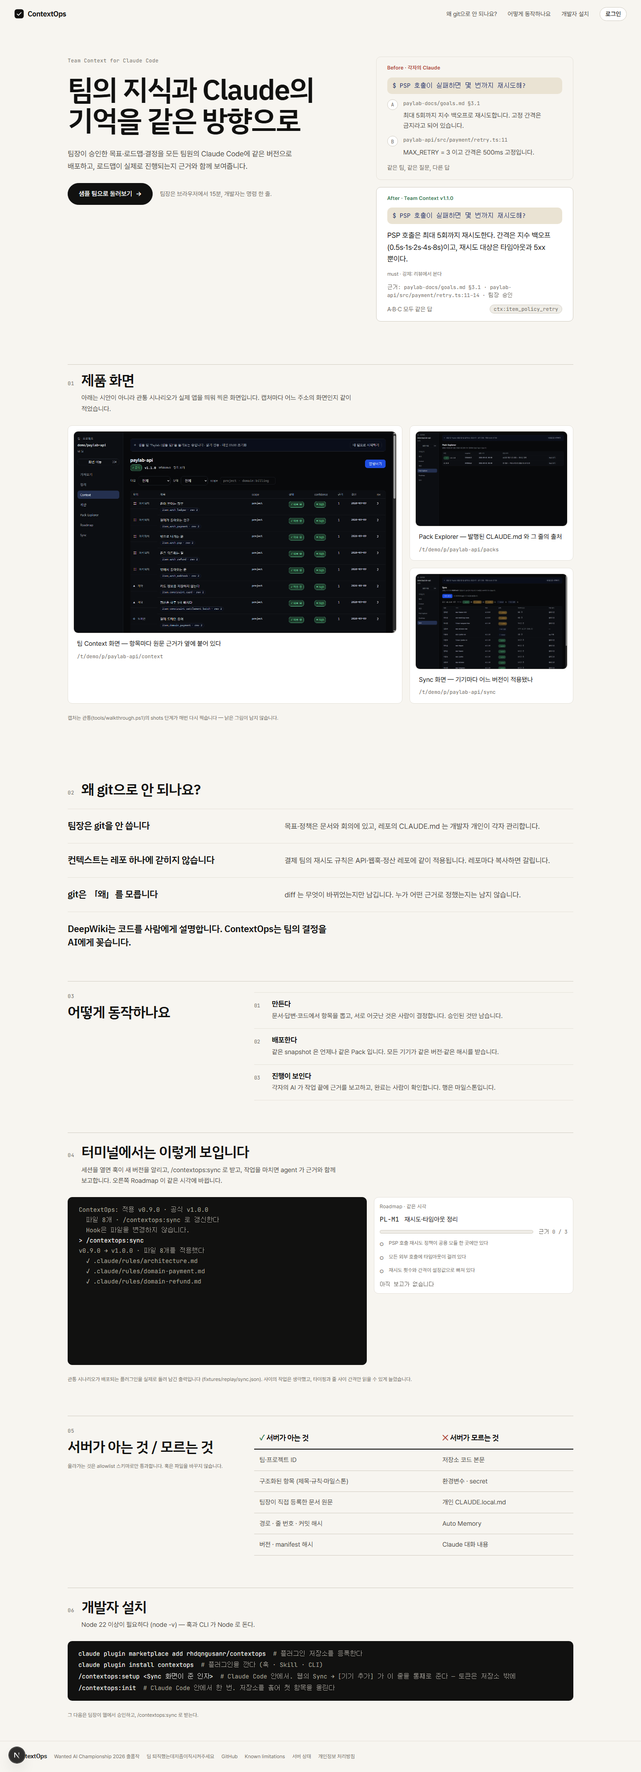
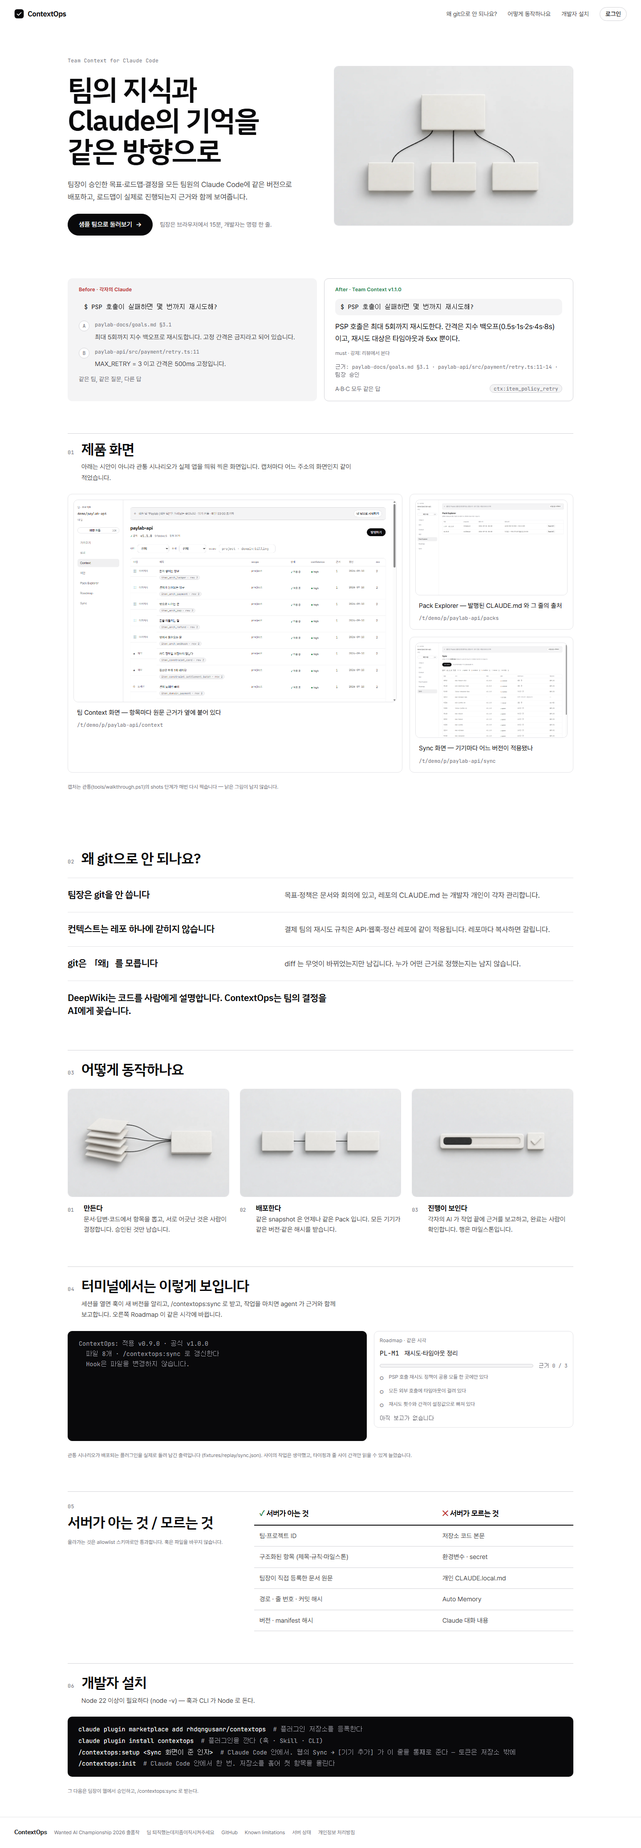
feat(web): 랜딩에 그림 — 히어로 클레이 카드 + 단계 그림 셋 (로컬 Codex CLI 생성 · 사람이 고름)
사용자 지시: 「이미지 넣어도 되니 여러 방향으로」 → 「절대 코드로 이미지는 만들지 마」 → 「로컬 Codex CLI 로」.
codex exec(imagegen)로 히어로 후보 4장을 뽑아 보였고 ④ 클레이 카드(한 Pack → 세 기기)를 골랐다.
「어떻게 동작하나요」에도 같은 시리즈로 단계 그림 3장(-i 참고 이미지).

- public/art/*.webp 넷 (68KB) · 정본 src/lib/web/art.ts (경로·크기·alt) — 화면 코드에 파일 이름 없음
- 히어로 6/6: 왼쪽 글 · 오른쪽 그림 · Before/After 는 아래 두 열 (문구·시험 그대로)
- 「어떻게」 3열: 그림 위, 번호·글 아래 — ART.steps 가 단계 수와 같을 때만
- test: web-landing-shots ⑤ 는 /shots/ <img> 만 센다 (그림은 별도)
- DESIGN_BRIEF §3 「그림」 신설 · §4 화면 1 갱신 · 원본 PNG·프롬프트 evidence/…/art/

diff --git a/apps/web/src/components/landing.tsx b/apps/web/src/components/landing.tsx
@@ -2,6 +2,7 @@ import { ReplayFrames, ShotsManifest } from '@contextops/schema'
 
 import replayRecording from '../../../../fixtures/replay/sync.json'
 import shotsManifest from '../../public/shots/manifest.json'
+import { ART } from '../lib/web/art'
 import { SITE } from '../lib/web/site'
 import styles from './landing.module.css'
 import { TerminalReplay } from './terminal-replay'
@@ -332,7 +333,11 @@ function Hero() {
           <span className={styles.note}>{LANDING_HEAD.note}</span>
         </div>
       </div>
-      <BeforeAfter />
+      <figure className={styles.heroArt}>
+        {/* 그림의 정본은 `lib/web/art.ts` — 사람이 고른 생성 이미지다 (코드로 그린 그림이 아니다 · DESIGN_BRIEF §3 「그림」).
+            첫 화면이라 즉시 받는다. 폭·높이는 정본이 준다 — 늦게 떠도 자리가 안 튄다. */}
+        <img src={ART.hero.src} width={ART.hero.width} height={ART.hero.height} alt={ART.hero.alt} loading="eager" />
+      </figure>
     </section>
   )
 }
@@ -423,24 +428,41 @@ function WhyNotGit({ index }: { index: string }) {
 }
 
 function HowItWorks({ index }: { index: string }) {
+  //  단계 그림은 정본(`ART.steps`)이 단계 수와 같을 때만 — 하나라도 빠지면 글로만 선다 (반쪽 시리즈를 보이지 않는다).
+  const art = ART.steps.length === HOW_IT_WORKS.steps.length ? ART.steps : null
+  const steps = (
+    <ol className={art ? styles.stepsArt : styles.steps}>
+      {HOW_IT_WORKS.steps.map((s, i) => {
+        const a = art?.[i]
+        return (
+          <li key={s.head} className={art ? styles.stepArt : styles.step}>
+            {a ? <img className={styles.stepImg} src={a.src} width={a.width} height={a.height} alt={a.alt} loading="lazy" /> : null}
+            {/* 번호는 `<ol>` 이 이미 말한다 — 모노 숫자는 그림이다. */}
+            <span className={styles.stepNo} aria-hidden="true">{String(i + 1).padStart(2, '0')}</span>
+            <div className={styles.stepBody}>
+              <h3>{s.head}</h3>
+              <p>{s.body}</p>
+            </div>
+          </li>
+        )
+      })}
+    </ol>
+  )
+  if (art) {
+    return (
+      <section className={styles.section} aria-labelledby="landing-how">
+        <SectionHead id="landing-how" index={index} title={HOW_IT_WORKS.title} />
+        {steps}
+      </section>
+    )
+  }
   return (
     <section className={styles.section} aria-labelledby="landing-how">
       <div className={styles.split}>
         <div className={styles.splitHead}>
           <SectionHead id="landing-how" index={index} title={HOW_IT_WORKS.title} />
         </div>
-        <ol className={styles.steps}>
-          {HOW_IT_WORKS.steps.map((s, i) => (
-            <li key={s.head} className={styles.step}>
-              {/* 번호는 `<ol>` 이 이미 말한다 — 모노 숫자는 그림이다. */}
-              <span className={styles.stepNo} aria-hidden="true">{String(i + 1).padStart(2, '0')}</span>
-              <div className={styles.stepBody}>
-                <h3>{s.head}</h3>
-                <p>{s.body}</p>
-              </div>
-            </li>
-          ))}
-        </ol>
+        {steps}
       </div>
     </section>
   )
@@ -559,6 +581,8 @@ export function Landing() {
       </header>
       <main className={styles.main}>
         <Hero />
+        {/* Before/After 는 히어로 바로 밑의 두 열이다 — 그림이 오른쪽 자리를 가져가서 내려왔다 (문구·시험은 그대로). */}
+        <BeforeAfter />
         {/* 🔴 제품 화면이 히어로 **바로 아래**다 — 심사위원은 10초 안에 판단하고, 그때 제품 화면이
             첫 스크롤 안에 있어야 한다 (FINDINGS 131 의 증상이 그것이었다). 차례는 `SECTIONS` 하나다. */}
         {SECTIONS.map((s, i) => (

diff --git a/apps/web/src/lib/web/art.ts b/apps/web/src/lib/web/art.ts
@@ -1,0 +1,51 @@
+// =====================================================================
+//  랜딩의 **그림** 정본 — 경로·크기·대체텍스트·출처가 여기 하나에 있다 (DESIGN_BRIEF §3 「그림」 · 2026-09-10)
+//
+//  ★ 왜 파일이 따로인가 — ① `landing.tsx` 는 캡처 파일 이름을 못 적는다(`web-landing-shots.test` ①: 화면 코드에
+//    `.png` 0건). 그림 경로가 화면 코드에 박히면 그 규칙이 무너진다. ② og 이미지·랜딩이 같은 그림을 읽는다.
+//  ★ 그림은 **사람이 고른 생성 이미지**다 — 로컬 Codex CLI(imagegen)가 만든 후보를 보여 주고 사용자가 골랐다
+//    (`docs/evidence/2026-09-10-redesign/art/`). 코드로 그린 그림(SVG·Pillow)은 두지 않는다 — 사용자 지시.
+//  ⚠ 파일은 `public/art/` 의 WebP 다 (1536×1024 · 클레이 그림이라 16KB 안팎). 원본 PNG 는 evidence 에.
+//  ⚠ 대체텍스트는 **그림이 무엇인지**만 말한다 — 제품의 주장(숫자·판정)을 그림에 싣지 않는다 (DESIGN_BRIEF §2-1).
+// =====================================================================
+
+export type Artwork = {
+  readonly src: string
+  readonly width: number
+  readonly height: number
+  readonly alt: string
+}
+
+export const ART = {
+  /** 히어로 오른쪽 — 두꺼운 카드 한 장에서 실이 셋으로 갈라져 같은 카드 셋에 닿는다 (한 Pack → 모든 기기). */
+  hero: {
+    src: '/art/hero-pack.webp',
+    width: 1536,
+    height: 1024,
+    alt: '두꺼운 카드 한 장에서 검은 실 세 가닥이 갈라져 아래의 똑같은 카드 셋에 닿는 클레이 그림 — 승인된 Pack 하나가 모든 기기에 같은 버전으로 닿는다',
+  },
+  /**
+   * 「어떻게 동작하나요」 세 단계 — 순서는 `HOW_IT_WORKS.steps`(만든다 · 배포한다 · 진행이 보인다)와 같다.
+   * 히어로와 같은 시리즈다 — Codex 에 히어로 그림을 `-i` 로 참고로 주고 뽑았다. 단계 수와 다르면 화면은 글로만 선다.
+   */
+  steps: [
+    {
+      src: '/art/step-make.webp',
+      width: 1536,
+      height: 1024,
+      alt: '얇은 클레이 판 다섯 장이 쌓여 있고 거기서 나온 검은 실들이 오른쪽의 두꺼운 카드 한 장으로 모이는 그림 — 문서에서 항목을 뽑아 하나로 정리한다',
+    },
+    {
+      src: '/art/step-distribute.webp',
+      width: 1536,
+      height: 1024,
+      alt: '똑같은 두꺼운 클레이 카드 셋이 한 줄로 서 있고 검은 실 하나가 셋을 같은 높이로 꿰뚫는 그림 — 같은 버전이 모두에게 닿는다',
+    },
+    {
+      src: '/art/step-progress.webp',
+      width: 1536,
+      height: 1024,
+      alt: '긴 클레이 레일에 검은 조각이 왼쪽부터 삼분의 일 채워져 있고 옆에 확인 표시가 새겨진 작은 타일이 있는 그림 — 진행은 근거만큼 차고 완료는 사람이 확인한다',
+    },
+  ] as readonly Artwork[],
+} as const

diff --git a/apps/web/src/components/landing.module.css b/apps/web/src/components/landing.module.css
@@ -61,9 +61,10 @@
 
 .hero {
   display: grid;
-  grid-template-columns: minmax(0, 7fr) minmax(0, 5fr);
-  gap: calc(var(--sp-7) * 1.5);
-  align-items: start;
+  grid-template-columns: minmax(0, 6fr) minmax(0, 6fr);
+  gap: calc(var(--sp-7) * 1.25);
+  /* 오른쪽이 그림이라 글을 그림의 세로 가운데에 맞춘다. */
+  align-items: center;
   /* 위는 눈금 하나 — 제품 화면이 첫 스크롤(900px) 안에 걸리게 (FINDINGS 131). */
   padding: var(--sp-6) 0 var(--sp-5);
 }
@@ -97,11 +98,21 @@
 .ctaRow :global(.btn-primary) { font-size: var(--fs-body); padding: var(--sp-3) var(--sp-5); }
 .ctaRow :global(.btn-primary)::after { content: '→'; margin-left: var(--sp-2); }
 
-/* ── Before/After — 두 장을 세로로 ── */
+/* 히어로 그림 — 사람이 고른 생성 이미지 (`lib/web/art.ts`). 옅은 회색 바탕이라 괘선 하나로 「액자」를 만든다. */
+.heroArt { margin: 0; }
+.heroArt img {
+  width: 100%;
+  height: auto;
+  display: block;
+  border-radius: var(--radius);
+  border: 1px solid var(--line);
+}
+
+/* ── Before/After — 히어로 밑의 두 열 ── */
 
 .compare {
   display: grid;
-  grid-template-columns: 1fr;
+  grid-template-columns: 1fr 1fr;
   gap: var(--sp-4);
 }
 
@@ -233,6 +244,31 @@
 }
 .step:last-child { border-bottom: 1px solid var(--line); }
 .stepNo { font-family: var(--font-mono); font-size: var(--fs-label); color: var(--ink-3); padding-top: var(--sp-1); min-width: var(--sp-5); }
+
+/* 단계 그림이 있을 때 — 세 칸 가로. 그림이 위, 번호와 글이 아래 (`ART.steps` 가 단계 수와 같을 때만). */
+.stepsArt {
+  list-style: none;
+  margin: 0;
+  padding: 0;
+  display: grid;
+  grid-template-columns: repeat(3, minmax(0, 1fr));
+  gap: var(--sp-5);
+}
+.stepArt {
+  display: grid;
+  grid-template-columns: auto 1fr;
+  gap: var(--sp-2) var(--sp-3);
+  align-items: start;
+}
+.stepImg {
+  grid-column: 1 / -1;
+  width: 100%;
+  height: auto;
+  display: block;
+  border-radius: var(--radius);
+  border: 1px solid var(--line);
+  margin-bottom: var(--sp-2);
+}
 .stepBody { display: flex; flex-direction: column; gap: var(--sp-1); }
 .step h3 { font-size: var(--fs-sub); }
 .step p { color: var(--ink-2); line-height: 1.65; }
@@ -307,7 +343,7 @@
 
 /* 좁은 폭 — 비대칭 격자가 전부 한 열로. */
 @media (max-width: 900px) {
-  .hero, .split, .def, .shotRow { grid-template-columns: 1fr; }
+  .hero, .split, .def, .shotRow, .compare, .stepsArt { grid-template-columns: 1fr; }
   .hero { gap: var(--sp-6); padding-top: var(--sp-6); }
   .title { font-size: var(--fs-hero-narrow); }
   .main { padding: var(--sp-5) var(--sp-4) var(--sp-6); gap: var(--sp-7); }

diff --git a/apps/web/test/web-landing-shots.test.ts b/apps/web/test/web-landing-shots.test.ts
@@ -91,8 +91,8 @@ describe('④ 근거로 적는 주소가 실재하는 화면이다', () => {
 describe('⑤ 그려 보면 그림이 다 있다', () => {
   const out = html()
 
-  it('`<img>` 가 장수만큼 있다', () => {
-    expect([...out.matchAll(/<img\b/g)].length).toBe(PRODUCT_SHOTS.length)
+  it('캡처 `<img>`(`/shots/`) 가 장수만큼 있다 — 그림(`/art/` · `lib/web/art.ts`)은 여기 안 센다', () => {
+    expect([...out.matchAll(/<img\b[^>]*src="\/shots\//g)].length).toBe(PRODUCT_SHOTS.length)
   })
 
   it.each(PRODUCT_SHOTS.map((s) => [s.file, s] as const))('%s 가 alt·width·height 와 함께 실린다', (_file, shot) => {

diff --git a/docs/evidence/2026-09-10-redesign/art/prompts.md b/docs/evidence/2026-09-10-redesign/art/prompts.md
@@ -1,0 +1,16 @@
+## hero-1.png
+
+Use case: ads-marketing. Asset type: standalone hero artwork for a restrained software product landing page with a pure white background, black text, thin gray hairlines and a black pill button outside the artwork. Generate a 1536x1024 landscape PNG. The conceptual subject is shared team knowledge becoming aligned. No text, letters, numerals, logos, watermark, UI, or border anywhere in the image. No glossy 3D blobs, purple or blue gradients, glowing circuits, robots, or futuristic tech clichés. Art direction: editorial risograph illustration. Black ink plus a single warm orange spot color on plain white paper. Dozens of small compass needles scattered chaotically on the left gradually turn to all point the same direction, to the right, on the right. Compass needles are slender pointed geometric needle shapes, not full compass dials. Flat shapes, visible riso grain confined to the ink, no gradients, generous white space, Scandinavian poster restraint. Keep the overall composition airy and quietly graphic.
+
+## hero-2.png
+
+Use case: ads-marketing. Asset type: standalone hero artwork for a restrained software product landing page with a pure white background, black text, thin gray hairlines and a black pill button outside the artwork. Generate a 1536x1024 landscape PNG. The conceptual subject is shared team knowledge becoming aligned. No text, letters, numerals, logos, watermark, UI, or border anywhere in the image. No glossy 3D blobs, purple or blue gradients, glowing circuits, robots, or futuristic tech clichés. Art direction: single continuous line drawing in black ink on white. Exactly three people at exactly three laptops, all looking up toward one large floating blank sheet of paper above them. The people and laptops are an elegant continuous black line composition; the floating sheet is outlined with one thin warm orange line. No shading or fills, lots of negative space, gallery-print elegance. Economical human gestures, spare flowing contours, delicate uniform line weight. No writing or markings on the sheet or screens.
+
+## hero-3.png
+
+Use case: ads-marketing. Asset type: standalone hero artwork for a restrained software product landing page with a pure white background, black text, thin gray hairlines and a black pill button outside the artwork. Generate a 1536x1024 landscape PNG. The conceptual subject is shared team knowledge becoming aligned. No text, letters, numerals, logos, watermark, UI, or border anywhere in the image. No glossy 3D blobs, purple or blue gradients, glowing circuits, robots, or futuristic tech clichés. Art direction: top-down studio photograph of hundreds of small folded black paper arrows on a smooth white paper surface. Every arrow points in precisely the same direction, toward the right. One single warm orange folded paper arrow among all the black arrows. Carefully arranged tactile paper pieces with visible folds, understated stationery-brand aesthetic. Soft window light, gentle natural shadows. True overhead photography, sharp paper edges, matte materials, generous clean white margins. No printed marks, no added graphic overlays. Critical composition requirement: show approximately 300 tiny paper arrows in 20 columns and 15 rows, all fully visible. Pull the overhead camera far back so there are hundreds of small arrows, not dozens of large arrows. Exactly one arrow is orange; every other arrow is black.
+
+## hero-4.png
+
+Use case: ads-marketing. Asset type: standalone hero artwork for a restrained software product landing page with a pure white background, black text, thin gray hairlines and a black pill button outside the artwork. Generate a 1536x1024 landscape PNG. The conceptual subject is shared team knowledge becoming aligned. No text, letters, numerals, logos, watermark, UI, or border anywhere in the image. No glossy 3D blobs, purple or blue gradients, glowing circuits, robots, or futuristic tech clichés. Art direction: minimal matte-clay 3D still life on a uniform very light gray background. Exactly one thick blank document card in the center, connected by three thin black threads to exactly three identical smaller blank cards below it. The three smaller cards are evenly spaced; each has its own thread from the central parent card. Simple rectangular off-white matte clay slabs with lightly softened edges, readable document-card proportions, no symbols or writing. Soft studio light, subtle contact shadows, no decorative gradients, no glow, no reflections. Muji-like restraint, generous negative space, quiet near-front elevated view that makes all four cards and all three threads clearly visible.
+

diff --git a/docs/DESIGN_BRIEF.md b/docs/DESIGN_BRIEF.md
@@ -150,6 +150,17 @@
   ★ 왜 — 「같 / 은 방향으로」로 접히는 순간 화면 전체가 아마추어처럼 읽힌다 (FINDINGS 129 · 사람이 잰 것).
   코드·경로·해시(mono)는 예외다 — 거긴 `break-all`/`break-word` 가 맞고 자기 규칙이 이걸 덮는다.
 
+### 그림
+
+- 랜딩의 그림은 **사람이 고른 생성 이미지**다 — 로컬 Codex CLI(`codex exec` · imagegen 스킬)로 후보를 뽑아 보여 주고 사용자가 고른다.
+  ★ 왜 — 사용자 지시(2026-09-10): 「절대 코드로 이미지는 만들지 마」 · 「로컬에 세팅된 코덱스 CLI 로 만들어」. SVG·Pillow 로 그린 그림은 두지 않는다.
+- 정본은 `apps/web/src/lib/web/art.ts` 하나 — 경로·크기·대체텍스트. 화면 코드에 파일 이름을 적지 않는다 (캡처 규칙과 같다).
+  단계 그림(`ART.steps`)은 단계 수와 같을 때만 그려진다 — 반쪽 시리즈는 글로만 선다.
+- 파일은 `apps/web/public/art/*.webp` (1536×1024 · 클레이 그림이라 20KB 안팎). 원본 PNG 와 프롬프트는 `docs/evidence/2026-09-10-redesign/art/`.
+- 스타일은 한 벌이다 — 무광 흰 클레이 · 아주 옅은 회색 바탕 · 부드러운 스튜디오 빛 · 글자·로고·사람 없음. 새 그림은 같은 스타일로 시리즈에 더한다
+  (Codex 에 `-i` 로 기존 그림을 참고로 준다).
+- 그림은 **설명**이지 주장이 아니다 — 숫자·판정·제품 화면을 그림에 싣지 않는다 (제품 화면은 관통 캡처만 · §4 화면 1 B-2).
+
 ### 접근성
 
 - **키보드 포커스는 보여야 한다**: `:focus-visible { outline: 2px solid var(--accent-ink); outline-offset: 2px }`
@@ -232,6 +243,9 @@
 
 **B. Before/After 비교** (우측 40%, 두 열 카드)
 
+> 🔴 **2026-09-10 부터 우측은 그림이다** (§3 「그림」 · `lib/web/art.ts` 의 `hero` — 한 Pack 이 세 기기로 닿는 클레이 그림).
+> Before/After 는 히어로 **바로 아래 두 열**로 내려왔다. 문구·시험은 그대로다.
+
 > ⚠ 이 절의 예시 문구는 **목업용**이다. 픽스처 정본은 `docs/SPEC.md` §10.1(paylab)이니
 > 화면을 만들 때 **paylab 데이터로 채운다.**
 
@@ -263,7 +277,7 @@
 
 **C. 스크롤 아래 섹션 순서**
 1. `왜 git으로 안 되나요?` — 세 문장 카드 3개(팀장은 git을 안 씁니다 / 컨텍스트는 레포 하나에 갇히지 않습니다 / git은 "왜"를 모릅니다) + 한 줄 `DeepWiki는 코드를 사람에게 설명합니다. ContextOps는 팀의 결정을 AI에게 꽂습니다.`
-2. `어떻게 동작하나요` — 3단계 가로 스텝: ① 만든다(문서·답변·코드 → 승인) ② 배포한다(같은 버전·같은 해시) ③ 진행이 보인다(AI가 근거를 자동 보고, 사람이 완료 확인). 각 스텝 아래 실제 화면 썸네일.
+2. `어떻게 동작하나요` — 3단계 가로 스텝: ① 만든다(문서·답변·코드 → 승인) ② 배포한다(같은 버전·같은 해시) ③ 진행이 보인다(AI가 근거를 자동 보고, 사람이 완료 확인). 각 스텝 위에 같은 시리즈의 클레이 그림(`ART.steps` · §3 「그림」).
 3. `터미널 재생` — 좌: 타이핑되는 터미널(훅 알림 → /contextops:sync → 작업 → 자동 progress) / 우: 같은 타임라인으로 Roadmap 행 BS-M2가 1/3 → 2/3으로 바뀌는 미니 패널.
 4. `서버가 아는 것 / 모르는 것` 2열 표 — 아는 것: 팀·프로젝트 ID, 구조화 항목, 문서 원문(팀장이 등록한 것), 경로·줄·커밋, 버전·해시 / 모르는 것: 저장소 코드 본문, 환경변수·secret, 개인 CLAUDE.local.md, Auto Memory, Claude 대화.
 5. `개발자 설치` — 코드 블록 1줄 `npx contextops setup` + 아래 "그 다음은 Claude Code에서 /contextops:init 한 번".

diff --git a/docs/evidence/2026-09-10-redesign/art/prompts-steps.md b/docs/evidence/2026-09-10-redesign/art/prompts-steps.md
@@ -1,0 +1,12 @@
+## step-1.png
+
+Use case: stylized-concept. Create one image in a consistent three-image landing-page series. Output exactly 1536x1024 pixels, landscape. Reference image hero-4.png is a STYLE REFERENCE only: match its matte warm-white clay objects, subtly textured surfaces, softly rounded beveled edges, very light neutral gray background, thin black connecting threads, and gentle contact shadows. Use soft even studio light and a slightly elevated three-quarter view with very restrained perspective, matching the reference. Uniform background, no gradients, no glow, no reflections, absolutely no text, letters, numbers, logos, watermarks, or people. Calm minimal composition with generous empty background. Subject: on the left, a loose, slightly uneven stack of several thin rectangular clay sheets representing raw documents; on the right, one thick clean rectangular clay card representing the approved item. A few thin black threads run from separate sheets, through the empty gap, and converge into the thick card. Keep the sheets and card blank. Arrange this as a balanced horizontal composition centered in the canvas, with plenty of space around the objects.
+
+## step-2.png
+
+Use case: stylized-concept. Create one image in a consistent three-image landing-page series. Output exactly 1536x1024 pixels, landscape. Reference image hero-4.png is a STYLE REFERENCE only: match its matte warm-white clay objects, subtly textured surfaces, softly rounded beveled edges, very light neutral gray background, thin black connecting threads, and gentle contact shadows. Use soft even studio light and a slightly elevated three-quarter view with very restrained perspective, matching the reference. Uniform background, no gradients, no glow, no reflections, absolutely no text, letters, numbers, logos, watermarks, or people. Calm minimal composition with generous empty background. Subject: exactly three identical thick blank rectangular clay cards standing in a neat row, evenly spaced, with their broad faces visible. One single continuous thin black thread passes through all three cards at exactly the same height, visible across their faces and in the gaps, showing one uninterrupted route across all three. Symmetric, centered composition. The cards must match each other in size, thickness, material, and orientation. No other objects.
+
+## step-3.png
+
+Use case: stylized-concept. Create one image in a consistent three-image landing-page series. Output exactly 1536x1024 pixels, landscape. Reference image hero-4.png is a STYLE REFERENCE only: match its matte warm-white clay objects, subtly textured surfaces, softly rounded beveled edges, very light neutral gray background, thin black connecting threads, and gentle contact shadows. Use soft even studio light and a slightly elevated three-quarter view with very restrained perspective, matching the reference. Uniform background, no gradients, no glow, no reflections, absolutely no text, letters, numbers, logos, watermarks, or people. Calm minimal composition with generous empty background. Subject: one long rounded matte-white clay rail lying horizontally like a progress track, with a slim matte-black inset segment filling exactly one third of its usable track length starting at the left end; the remaining exactly two thirds stays white clay. Beside the rail, to its right with a small clear gap, one small square white clay tile bearing a subtle embossed check mark sculpted into the clay. The check mark is a simple raised geometric shape, not printed text. Minimal, centered horizontal composition. No other objects.
+

diff --git a/docs/STATUS.md b/docs/STATUS.md
@@ -51,6 +51,14 @@ AI 산출물의 통계적 기본값으로 짚는다. 배포돼 있던 화면이 
 이미지: 사용자가 「코드로 그린 그림 금지 · Higgsfield 금지 · 로컬 Codex CLI 로」 — `codex exec`(imagegen 스킬)로 히어로 후보 4장을 뽑아 보였고
 ④ 클레이 카드(한 Pack → 세 기기)를 골랐다 (`public/art/hero-pack.webp` 16KB · 다음 커밋).
 
+🔴 **셋째 판 — 그림이 들어갔다** (사용자: 「로티·이미지 넣어도 되니 여러 방향으로」 → 「절대 코드로 이미지는 만들지 마」 → 「힉스필드 말고 로컬 Codex CLI 로」).
+`codex exec -s workspace-write --json -o last.md - < prompt.txt`(imagegen 스킬 · gpt-6-astra)로 히어로 후보 4장(나침반 바늘 · 한 줄 드로잉 · 화살표 격자 · 클레이 카드)을 뽑아
+보였고 사용자가 **④ 클레이 카드(한 Pack → 세 기기)** 를 골랐다 · 「어떻게」 절에도 그림을 넣기로 해 같은 스타일로 단계 그림 3장을 `-i hero-4.png` 참고로 더 뽑았다.
+잰 것: `public/art/*.webp` 넷 = 68KB(1536×1024 · q86) · 정본 `lib/web/art.ts`(경로·크기·alt) · 히어로 6/6 에 그림, Before/After 는 아래 두 열 ·
+「어떻게」는 그림 위 + 번호·글 아래 3열(`ART.steps` 가 단계 수와 같을 때만) · `web-landing-shots` ⑤ 는 `/shots/` `<img>` 만 센다(그림은 별도) ·
+가로 밀림 0(1440·375) · DESIGN_BRIEF §3 「그림」 절 신설 · 원본 PNG·프롬프트는 `evidence/…/art/`.
+`tools/ci.ps1`: 2026-09-10 14:18 | principles OK | typecheck OK | test OK | build OK | walkthrough OK | docs OK => GREEN
+
 🙋 **사람이 할 것**: ① 터미널에서 `claude mcp login taste` 한 번 (이 세션의 토큰은 1시간짜리 스크래치다) ② Taste 앱에서 샘플을 저장하고
 「Generate profile」 — 그래야 `get_design_context` 가 내용을 준다 ③ Vercel 이 이 커밋을 배포한 뒤 production 을 눈으로 본다
 (글꼴 4.1MB 가 저장소에 들어갔다 — 첫 화면은 조각 30~40개 · 수백 KB 만 받는다).
